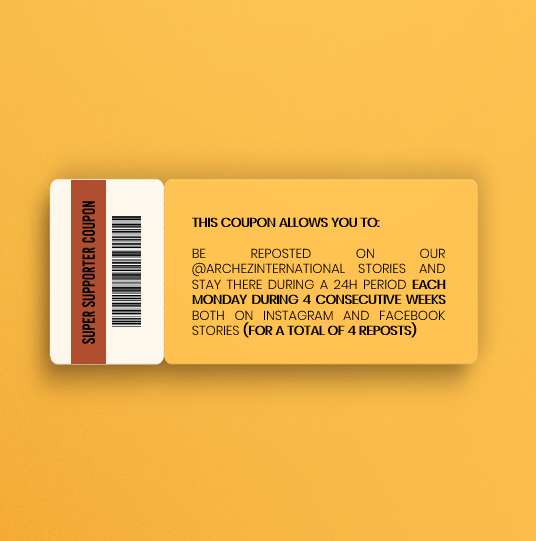
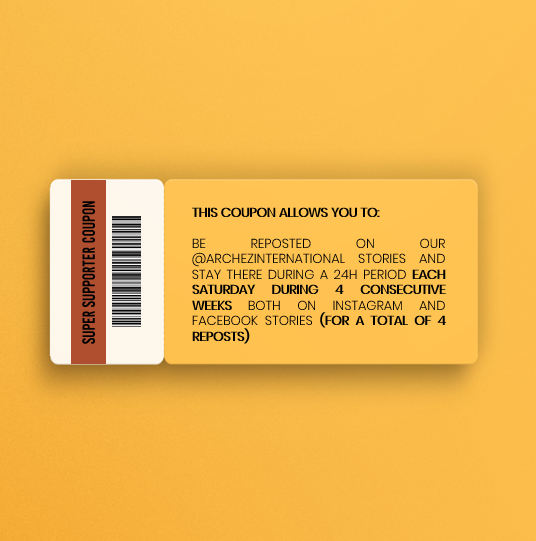
small text change + new iamges

Changed region(s): [[0.3582, 0.3845, 0.8358, 0.6506]]

diff --git a/shop/standardcoupon/index.html b/shop/standardcoupon/index.html
@@ -232,14 +232,14 @@
 <p>Hi archifriend!</p>
 <p>Would you like to grow your account? Do you want to advertise your account, workshop, product, etc.? Then #GrowWithArchez is for you!</p>
 <p><strong>This coupon allows you to: Be on our @archezinternational stories each monday during 4 consecutive weeks on instagram and facebook + call to action (follow, check it out, buy, etc) + link</strong></p>
-<p>· Every monday we will have a special section in our stories for you</p>
+<p>· Every saturday we will have a special section in our stories for you</p>
 <p>· We will only post architects, students, studios, offices, artists, engineers, amateur architects. We will not promote contests due to legal policies</p>
 <p>· After making the purchase you will receive an email with the instructions</p>
 <hr>
 <p>¡Hola archifriend!</p>
 <p>¿Te gustaría hacer crecer tu cuenta? ¿Quieres publicitar tu cuenta, taller, producto, etc.? ¡Entonces #GrowWithArchez es para ti!</p>
-<p><strong>Este cupón te permite: ser visible en nuestras historias @archezinternational durante 4 lunes consecutivos en instagram y facebook + llamada a la acción (sigue, revisa, compra, etc) + link</strong></p>
-<p>· Todos los lunes tendremos una sección especial en nuestra stories para ustedes</p>
+<p><strong>Este cupón te permite: ser visible en nuestras historias @archezinternational durante 4 sábados consecutivos en instagram y facebook + llamada a la acción (sigue, revisa, compra, etc) + link</strong></p>
+<p>· Todos los sábados tendremos una sección especial en nuestra stories para ustedes</p>
 <p>· Podrás ser recomendado como arquitecto, estudiante, estudio/oficina, artista, ingeniero o entusiasta de la arquitectura. No promocionamos concursos por políticas legales</p>
 <p>· Después de realizar la compra recibirás un correo electrónico con las instrucciones</p>
 

diff --git a/shop/supersupportercoupon/index.html b/shop/supersupportercoupon/index.html
@@ -231,14 +231,14 @@
           <hr>
 <p>Hi archifriend!</p>
 <p>Thank you for your support!</p>
-<p><strong>This coupon allows you to: Be reposted on our @archezinternational stories and stay there during a 24h period each monday during 4 consecutive weeks both on instagram and facebook stories (for a total of 4 reposts)</strong></p>
-<p>· Every monday we will have a special section in our stories for you</p>
+<p><strong>This coupon allows you to: Be reposted on our @archezinternational stories and stay there during a 24h period each saturday during 4 consecutive weeks both on instagram and facebook stories (for a total of 4 reposts)</strong></p>
+<p>· Every saturday we will have a special section in our stories for you</p>
 <p>· After making the purchase you will receive an email with the instructions</p>
 <hr>
 <p>¡Hola archifriend!</p>
 <p>¡Gracias por tu apoyo!</p>
-<p><strong>Este cupón es válido para: Ser reposteado en nuestras historias de @archezinternational y quedarte allí durante un período de 24h cada lunes durante 4 semanas consecutivas tanto en instagram como en facebook stories (para un total de 4 reposts)</strong></p>
-<p>· Todos los lunes tendremos una sección especial en nuestra stories para ustedes</p>
+<p><strong>Este cupón es válido para: Ser reposteado en nuestras historias de @archezinternational y quedarte allí durante un período de 24h cada sábado durante 4 semanas consecutivas tanto en instagram como en facebook stories (para un total de 4 reposts)</strong></p>
+<p>· Todos los sábados tendremos una sección especial en nuestra stories para ustedes</p>
 <p>· Después de realizar la compra recibirás un correo electrónico con las instrucciones</p>
 
         </div>

diff --git a/shop/basiccoupon/index.html b/shop/basiccoupon/index.html
@@ -232,14 +232,14 @@
 <p>Hi archifriend!</p>
 <p>Would you like to grow your account? Do you want to advertise your account, workshop, product, etc.? Then #GrowWithArchez is for you!</p>
 <p><strong>This coupon allows you to: Be on our @archezinternational stories during a 24h period on instagram and facebook + call to action (follow, check it out, buy, etc) + link</strong></p>
-<p>· Every monday we will have a special section in our stories for you</p>
+<p>· Every saturday we will have a special section in our stories for you</p>
 <p>· We will only post architects, students, studios, offices, artists, engineers, amateur architects. We will not promote contests due to legal policies</p>
 <p>· After making the purchase you will receive an email with the instructions</p>
 <hr>
 <p>¡Hola archifriend!</p>
 <p>¿Te gustaría hacer crecer tu cuenta? ¿Quieres publicitar tu cuenta, taller, producto, etc.? ¡Entonces #GrowWithArchez es para ti!</p>
 <p><strong>Este cupón te permite: Estar en nuestras historias de @archezinternational durante un período de 24 horas en instagram y facebook + llamada a la acción (sigue, revisa, compra, etc.) + link</strong></p>
-<p>· Todos los lunes tendremos una sección especial en nuestra stories para ustedes</p>
+<p>· Todos los sábados tendremos una sección especial en nuestra stories para ustedes</p>
 <p>· Podrás ser recomendado como arquitecto, estudiante, estudio/oficina, artista, ingeniero o entusiasta de la arquitectura. No promocionamos concursos por políticas legales</p>
 <p>· Después de realizar la compra recibirás un correo electrónico con las instrucciones</p>
 

diff --git a/shop/supportercoupon/index.html b/shop/supportercoupon/index.html
@@ -232,13 +232,13 @@
 <p>Hi archifriend!</p>
 <p>Thank you for your support!</p>
 <p><strong>This coupon allows you to: Be reposted on our @archezinternational stories and stay there during a 24h period both on instagram and facebook stories</strong></p>
-<p>· Every monday we will have a special section in our stories for you</p>
+<p>· Every saturday we will have a special section in our stories for you</p>
 <p>· After making the purchase you will receive an email with the instructions</p>
 <hr>
 <p>¡Hola archifriend!</p>
 <p>¡Gracias por tu apoyo!</p>
 <p><strong>Este cupón es válido para: Ser resposteado en nuestras historias de @archezinternational y permanecer allí durante un período de 24h tanto en instagram como en facebook</strong></p>
-<p>· Todos los lunes tendremos una sección especial en nuestra stories para ustedes</p>
+<p>· Todos los sábados tendremos una sección especial en nuestra stories para ustedes</p>
 <p>· Después de realizar la compra recibirás un correo electrónico con las instrucciones</p>
 
         </div>
